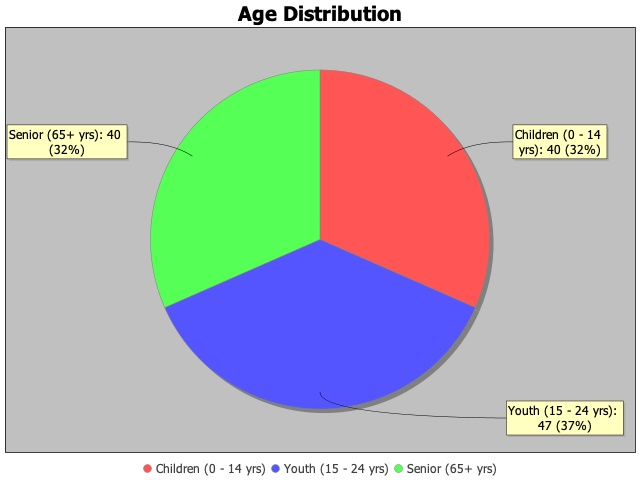
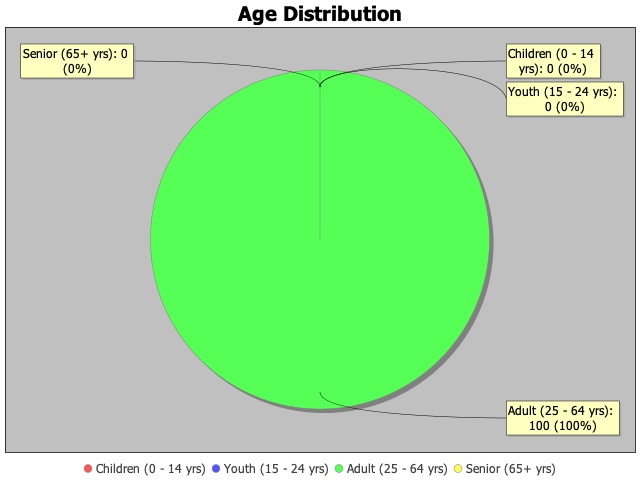
Refactor pie graph to display age information more accurately

diff --git a/immigration-analytics/reports/report.html b/immigration-analytics/reports/report.html
@@ -1,1 +1,1 @@
-<html><head><title>ICARE Reports</title><link rel="stylesheet" href="styles.css"></head><body><div class="header"><h1 class="title">Community Connections</h1></div><div class="template"><h2 class="heading">Community Connections&#x27;s Reffered vs Recieved</h2></div><div class="graphic-data"><img src="reports/barChart.png" alt="Bar Chart portryaing Services Recieved and Referred"></div><div class="graphic-data"><img src="reports/pieChart.png" alt="Pie Chart illustrating the various age groups represented in the service"></div></body></html>
+<html><head><title>ICARE Reports</title><link rel="stylesheet" href="styles.css"></head><body><div class="header"><h1 class="title">iCare Reports</h1></div><div class="template"><h2 class="heading">Community Connections</h2><img src="barChart.jpg" class=".graphic-data" alt="Bar Chart portryaing Services Recieved and Referred"></div><div class="table-container"><table class=".table-data"><tr><td>Refered: 0.0%</td><td>Recieved: 0.0%</td></tr></table></div><div class="template"><h2 class="heading">Community Connections</h2><img src="pieChart.jpg" class=".graphic-data" alt="Pie Chart illustrating the various age groups represented in the service"></div></body></html>

diff --git a/immigration-analytics/src/main/java/com/nineplusten/app/view/QueryViewController.java b/immigration-analytics/src/main/java/com/nineplusten/app/view/QueryViewController.java
@@ -194,33 +194,33 @@ public class QueryViewController {
   }
 
   private List<Double> getTemplateData() {
-  Reports report = new Reports(dataTable);
-  double referred = 0;
-  double recieved = 0;
-  List<Double> data = new ArrayList<>();
-  Map<String, String> columnIdName = columnSelectorTable.getItems().stream().filter(ColumnQueryChoice::isSelected).collect(
-        Collectors.toMap(ColumnQueryChoice::getColumnId, ColumnQueryChoice::getColumnName));
- if(columnIdName.containsKey("assessment_referral_id") && columnIdName.containsKey("support_received_ind")) {
-  referred = report.getNonEmptyCellCount("assessment_referral_id");
-  recieved = report.getNonEmptyCellCount("support_received_ind");
- }
- if(columnIdName.containsKey("assessment_referral_id") && columnIdName.containsKey("community_service_id")) {
-  referred = report.getNonEmptyCellCount("assessment_referral_id");
-  recieved = report.getNonEmptyCellCount("community_service_id");
- }
- if(columnIdName.containsKey("service_referred_by_id") && columnIdName.containsKey("orientation_service_id")) {
-  referred = report.getNonEmptyCellCount("service_referred_by_id");
-  recieved = report.getNonEmptyCellCount("orientation_service_id");
- }
+	  Reports report = new Reports(dataTable);
+	  double referred = 0;
+	  double recieved = 0;
+	  List<Double> data = new ArrayList<>();
+	  Map<String, String> columnIdName = columnSelectorTable.getItems().stream().filter(ColumnQueryChoice::isSelected).collect(
+			  Collectors.toMap(ColumnQueryChoice::getColumnId, ColumnQueryChoice::getColumnName));
+	  if(columnIdName.containsKey("assessment_referral_id") && columnIdName.containsKey("support_received_ind")) {
+		  referred = report.getNonEmptyCellCount("assessment_referral_id");
+		  recieved = report.getNonEmptyCellCount("support_received_ind");
+	  }
+	  if(columnIdName.containsKey("assessment_referral_id") && columnIdName.containsKey("community_service_id")) {
+		  referred = report.getNonEmptyCellCount("assessment_referral_id");
+		  recieved = report.getNonEmptyCellCount("community_service_id");
+	  }
+	  if(columnIdName.containsKey("service_referred_by_id") && columnIdName.containsKey("orientation_service_id")) {
+		  referred = report.getNonEmptyCellCount("service_referred_by_id");
+		  recieved = report.getNonEmptyCellCount("orientation_service_id");
+	  }
 
-  data.add(referred * 100);
-  data.add(recieved * 100);
-  
-  System.out.print("Reff" + data.get(0));
-  System.out.print("rec" + data.get(1));
+	  data.add(referred * 100);
+	  data.add(recieved * 100);
 
-  
-  return data;
+	  System.out.print("Reff" + data.get(0));
+	  System.out.print("rec" + data.get(1));
+
+
+	  return data;
   }
   
   private CategoryDataset createDataset() {
@@ -238,36 +238,39 @@ public class QueryViewController {
   
   private String generatej2html() {
 
- ContainerTag html =  html(
-    head(
-        title("ICARE Reports"),
-        link().withRel("stylesheet").withHref("styles.css")
-    ),
-    body(
-    div(attrs(".header")).with(
-            h1("iCare Reports").withClass("title")
-    ),
-    div(attrs(".template"),
-            h2(queryModel.getSelectedTemplate().getTemplateName()).withClass("heading")
-    ,(img().withSrc("barChart.jpg").withClass(".graphic-data").withAlt("Bar Chart portryaing Services Recieved and Referred"))
-    ),
-    div(attrs(".table-container"),(table().withClass(".table-data").with(
-        tr().with(
-                td().withText(
-                    "Refered: " + this.getTemplateData().get(0).toString() + "%"
-                ),
-                td().withText(
-                    "Recieved: " + this.getTemplateData().get(1).toString() + "%"
-                )
-         
-            )
-    )
-    )
-    )
-    )
-);
- 
- return html.render();
+	  ContainerTag html =  html(
+			  head(
+					  title("ICARE Reports"),
+					  link().withRel("stylesheet").withHref("styles.css")
+					  ),
+			  body(
+					  div(attrs(".header")).with(
+							  h1("iCare Reports").withClass("title")
+							  ),
+					  div(attrs(".template"),
+							  h2(queryModel.getSelectedTemplate().getTemplateName()).withClass("heading")
+							  ,(img().withSrc("barChart.jpg").withClass(".graphic-data").withAlt("Bar Chart portryaing Services Recieved and Referred"))
+							  ),
+					  div(attrs(".table-container"),(table().withClass(".table-data").with(
+							  tr().with(
+									  td().withText(
+											  "Refered: " + this.getTemplateData().get(0).toString() + "%"
+											  ),
+									  td().withText(
+											  "Recieved: " + this.getTemplateData().get(1).toString() + "%"
+											  )
+
+									  )
+							  ))),
+						div(attrs(".template"),
+								h2(queryModel.getSelectedTemplate().getTemplateName()).withClass("heading")
+								,(img().withSrc("pieChart.jpg").withClass(".graphic-data").withAlt("Pie Chart illustrating the various age groups represented in the service"))
+								)
+						)
+				);
+			  
+
+	  return html.render();
   }
   
   private void addHtmltoFile(String html) {
@@ -308,7 +311,7 @@ public class QueryViewController {
       Document document;
       String pathURL;
       try {
-        pathURL = pathURL = new File("reports/report.html").toURI().toURL().toString();
+        pathURL = new File("reports/report.html").toURI().toURL().toString();
         document = ReportUtil.html5ParseDocument(pathURL, 0);
       } catch (IOException e) {
         e.printStackTrace();
@@ -335,7 +338,6 @@ public class QueryViewController {
 	  double seniorAmount = report.getTargetSeniorPercent();
 	  double youthAmount = report.getTargetYouthPercent();
 	  double adultAmount = 100 - (childAmount + seniorAmount + youthAmount);
-	  
 	  DefaultPieDataset target_data = new DefaultPieDataset();
 	  target_data.setValue("Children (0 - 14 yrs)", childAmount);
 	  target_data.setValue("Youth (15 - 24 yrs)", youthAmount);

diff --git a/immigration-analytics/src/main/java/com/nineplusten/app/model/Reports.java b/immigration-analytics/src/main/java/com/nineplusten/app/model/Reports.java
@@ -9,101 +9,97 @@ import javafx.scene.control.TableView;
 
 public class Reports {
 
-private TableView<TemplateData> dataTable;
-private int totalRows;
-private int childEntries;
-private int youthEntries;
-private int adultEntries;
-private int seniorEntries;
+	private TableView<TemplateData> dataTable;
+	private int totalRows;
+	private double childEntries;
+	private double youthEntries;
+	private double adultEntries;
+	private double seniorEntries;
 
-public Reports(TableView<TemplateData> dataTable) {
-this.dataTable = dataTable;
-}
+	public Reports(TableView<TemplateData> dataTable) {
+		this.dataTable = dataTable;
+	}
 
-private List<Object> getValuesforColumn(String columnID) {
-  //final String COLUMN_ID = "client_validation_type_id";
-    List<Object> rowCount = new ArrayList<>();
-    List<String> values = new ArrayList<>();
-    int total = 0;
-    for (TemplateData row: this.dataTable.getItems()) {
-      values.add(row.getFieldData().get(columnID));
-      total += 1;
-    }
-    rowCount.add(total);
-    rowCount.add(values);
-    
-   return rowCount;
-  }
-  
+	private List<Object> getValuesforColumn(String columnID) {
+		//final String COLUMN_ID = "client_validation_type_id";
+		List<Object> rowCount = new ArrayList<>();
+		List<String> values = new ArrayList<>();
+		int total = 0;
+		for (TemplateData row: this.dataTable.getItems()) {
+			values.add(row.getFieldData().get(columnID));
+			total += 1;
+		}
+		rowCount.add(total);
+		rowCount.add(values);
+
+		return rowCount;
+	}
+
 
 	public void sortAges() {
 		DateTime today = DateTime.now();
-		
 		this.totalRows = (Integer) getValuesforColumn("client_birth_dt").get(0);
-		  System.out.println("total rows" + totalRows);
-		  List<String> rowNums = (List<String>) getValuesforColumn("client_birth_dt").get(1);
-		  int i = 0;
-		  for (i = 0; i < rowNums.size(); i++) {
-			  
-			  String year = rowNums.get(i).substring(rowNums.get(i).length() - 2);
-			  System.out.println(today.getYear());
-			  if (Integer.parseInt(year) <= 99 && Integer.parseInt(year) >= (today.getYear() - 2000)) {
-				  year = "19" + year;
-			  }
-			  else {
-				  year = "20" + year;
-			  }
-			  int difference = today.getYear() - Integer.parseInt(year);
-			  
-			  if (difference <= 14) {
-				  this.childEntries++;
-			  }
-			  else if (difference > 14 && difference <= 24) {
-				  this.youthEntries++;
-			  }
-			  else if (difference > 24 && difference <= 64) {
-				  this.adultEntries++;
-			  }
-			  else {
-				  this.seniorEntries++;
-			  }
-		  }
+		List<String> rowNums = (List<String>) getValuesforColumn("client_birth_dt").get(1);
+		int i = 0;
+		for (i = 0; i < rowNums.size(); i++) {
+
+			String year = rowNums.get(i).substring(rowNums.get(i).length() - 2);
+			//System.out.println(today.getYear());
+
+			if (Integer.parseInt(year) <= 99 && Integer.parseInt(year) >= (today.getYear() - 2000)) {
+				year = "19" + year;
+			}
+			else {
+				year = "20" + year;
+			}
+			int difference = today.getYear() - Integer.parseInt(year);
+			//System.out.println(difference);
+			if (difference <= 14) {
+				this.childEntries++;
+			}
+			else if (difference > 14 && difference <= 24) {
+				this.youthEntries++;
+			}
+			else if (difference > 24 && difference <= 64) {
+				this.adultEntries++;
+			}
+			else {
+				this.seniorEntries++;
+			}
+		}
 	}
-	
-	
-	  public double getTargetChildPercent() {
-		  double childPercent = (childEntries/totalRows) * 100;
-		  
-		  return childPercent;
-	  }
-	  
-	  public double getTargetYouthPercent() {
-		  double youthPercent = (youthEntries/this.totalRows)*100;
-		  
-		  return youthPercent;
-		  
-	  }
-	  
-	  public double getTargetSeniorPercent() {
-		  double seniorPercent = (seniorEntries/this.totalRows)*100;
-		  
-		  return seniorPercent;
-		  
-	  }
-	  
-	  public double getNonEmptyCellCount(String columnid) {
-		  List<String> cells_for_column = (List<String>) getValuesforColumn(columnid).get(1);
-		  int total_rows = (Integer) getValuesforColumn(columnid).get(0);
-		  double cell_count = 0;
-		  for (int i = 0; i < total_rows; i++) {
-			  if (cells_for_column.get(i) != null && !cells_for_column.get(i).isEmpty()) {
-				  cell_count +=1;
-				  
-			  }
-		  }
-		  System.out.println("cellcount: " + cell_count);
-		  return cell_count/total_rows;
-		  
-	  }
-	  
+
+
+	public double getTargetChildPercent() {
+		double childPercent = (this.childEntries/this.totalRows) * 100;
+		return childPercent;
+	}
+
+	public double getTargetYouthPercent() {
+		double youthPercent = (this.youthEntries/this.totalRows) * 100;
+		return youthPercent;
+
+	}
+
+	public double getTargetSeniorPercent() {
+		double seniorPercent = (this.seniorEntries/this.totalRows) * 100;
+		return seniorPercent;
+
+	}
+
+	public double getNonEmptyCellCount(String columnid) {
+		List<String> cells_for_column = (List<String>) getValuesforColumn(columnid).get(1);
+		int total_rows = (Integer) getValuesforColumn(columnid).get(0);
+		double cell_count = 0;
+		for (int i = 0; i < total_rows; i++) {
+			if (cells_for_column.get(i) != null && !cells_for_column.get(i).isEmpty()) {
+				cell_count +=1;
+
+			}
+		}
+		System.out.println("cellcount: " + cell_count);
+		return cell_count/total_rows;
+
+	}
+
 }

diff --git a/immigration-analytics/src/main/java/com/nineplusten/app/view/DataViewController.java b/immigration-analytics/src/main/java/com/nineplusten/app/view/DataViewController.java
@@ -156,12 +156,6 @@ public class DataViewController {
       return dataset;
       
   }
-  /*private DefaultPieDataset createPieDataset() {
-	  DefaultPieDataset target_data = new DefaultPieDataset();
-	  target_data.setValue("Referred", this.getTemplateData().get(0));
-	  target_data.setValue("Received", this.getTemplateData().get(1));
-	  return target_data;
-  }*/
 
   private List<Double> getTemplateData() {
 	  Reports report = new Reports(dataTable);

diff --git a/immigration-analytics/src/main/java/com/nineplusten/app/service/PieChart_AWT.java b/immigration-analytics/src/main/java/com/nineplusten/app/service/PieChart_AWT.java
@@ -42,7 +42,7 @@ public class PieChart_AWT  {
         
         int width = 640;    /* Width of the image */
         int height = 480;   /* Height of the image */ 
-        File pieChart = new File("reports/pieChart.png");
+        File pieChart = new File("./reports/pieChart.jpg");
         pieChart.createNewFile();
         ChartUtils.saveChartAsJPEG(pieChart ,chart, width ,height);
 
